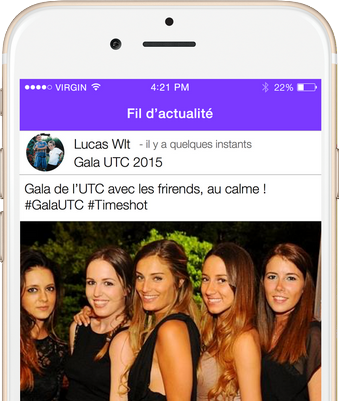
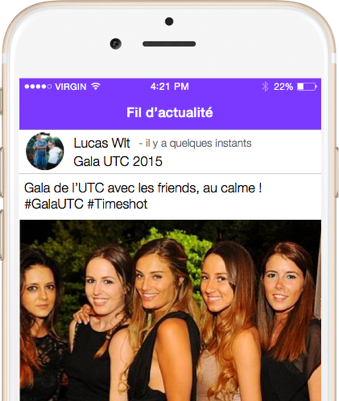
ready for Apple review : change popOver to ActionSheet + correct some css bug + change onboarding photo with mistake + disable send button if no event selected +

diff --git a/PicatchUsFB/www/pages/eventsFeed/eventsFeedController.js b/PicatchUsFB/www/pages/eventsFeed/eventsFeedController.js
@@ -1,6 +1,6 @@
 app.controller('EventsFeedController',
     function ($scope,$rootScope,$ionicModal, $cordovaToast, EventsFactory, PhotoFactory,
-            $ionicHistory,$ionicScrollDelegate, $ionicPopover, $ionicPopup){
+            $ionicHistory,$ionicScrollDelegate, $ionicPopover, $ionicPopup, $ionicActionSheet){
 
     $rootScope.uploadPhoto = 0;
 
@@ -32,22 +32,27 @@ app.controller('EventsFeedController',
         $scope.livePhotos[posPhoto].total_likes++;
         $scope.livePhotos[posPhoto].has_liked = true;
         PhotoFactory.like($scope.livePhotos[posPhoto].id).then(function(result){
+            console.log('like on feed');
             mixpanel.people.increment("Likes total");
             mixpanel.people.increment("Likes on feed");
             mixpanel.track('photo.like.onFeed');
         }, function(msg){
             $scope.livePhotos[posPhoto].total_likes--;
             $scope.livePhotos[posPhoto].has_liked = false;
+            console.log('error on liking a photo on feed');
         })  
     }
 
     $scope.dislike = function(posPhoto){
         $scope.livePhotos[posPhoto].total_likes--;
         $scope.livePhotos[posPhoto].has_liked = false;
-        PhotoFactory.like($scope.livePhotos[posPhoto].id).then(function(result){
+        PhotoFactory.dislike($scope.livePhotos[posPhoto].id).then(function(result){
+            console.log('dislike a photo on feed');
         }, function(msg){
             $scope.livePhotos[posPhoto].total_likes++;
             $scope.livePhotos[posPhoto].has_liked = true;
+            console.log('error on disliking a photo on feed');
+            console.log(msg);
         })
     }
 
@@ -62,23 +67,26 @@ app.controller('EventsFeedController',
      * POP OVER REPORT PHOTO
      */
 
-    var initPopover = function() {
-        return $ionicPopover.fromTemplateUrl('templates/reportPhotoPopOverMenu.html', {
-            scope: $scope
-            }).then(function(popover) {
-                $scope.popover = popover;
-        });
-    }
-
     $scope.openPopover = function($event) {
-        initPopover().then(function(){
-            console.log('open pop over');
-            $scope.popover.show($event);
-        });
+       // Show the action sheet
+       var hideSheet = $ionicActionSheet.show({
+         buttons: [
+           { text: '<b>Signaler</b>' }
+         ],
+         titleText: 'Signaler une photo',
+         cancelText: 'Annuler',
+         buttonClicked: function(index) {
+            hideSheet();
+            console.log('index Action Sheet : ' + index);
+           if(index == 0){
+            $scope.showConfirm();
+           }
+         }
+       });
     };
 
     $scope.showConfirm = function() {
-        $scope.popover.remove();
+
         var confirmPopup = $ionicPopup.confirm({
         title: 'Pourquoi signalez-vous cette photo ?',
         templateUrl: 'templates/reportPhotoConfirmBox.html',
@@ -92,7 +100,6 @@ app.controller('EventsFeedController',
         }]
     });
 
-        
     confirmPopup.then(function(res) {
          if(res) {
             $cordovaToast.showLongBottom('La photo a été signalée.');

diff --git a/PicatchUsFB/www/pages/eventDetails/eventDetailsController.js b/PicatchUsFB/www/pages/eventDetails/eventDetailsController.js
@@ -1,4 +1,4 @@
-app.controller('EventDetailsController',function ($scope, ngFB,$rootScope, $timeout,$stateParams, $ionicPopup, $cordovaToast, $state, $localstorage, $ionicModal, $ionicPopover, UserFactory, EventsFactory, PhotoFactory){
+app.controller('EventDetailsController',function ($scope, ngFB,$rootScope, $timeout,$stateParams, $ionicPopup, $cordovaToast, $ionicActionSheet, $state, $localstorage, $ionicModal, $ionicPopover, UserFactory, EventsFactory, PhotoFactory){
 	function getEvent(refresh){
         refresh == undefined ? refresh = false : refresh;
         EventsFactory.getEvent($stateParams.eventId, refresh).then(function(event){
@@ -98,23 +98,25 @@ app.controller('EventDetailsController',function ($scope, ngFB,$rootScope, $time
     /*
      * POP OVER MENU TO REPORT PHOTO
      */
-    var initPopover = function() {
-        return $ionicPopover.fromTemplateUrl('templates/reportPhotoPopOverMenu.html', {
-            scope: $scope
-            }).then(function(popover) {
-                $scope.popover = popover;
-        });
-    }
-
     $scope.openPopover = function($event) {
-        initPopover().then(function(){
-            console.log('open pop over');
-            $scope.popover.show($event);
-        });
+       // Show the action sheet
+       var hideSheet = $ionicActionSheet.show({
+         buttons: [
+           { text: '<b>Signaler</b>' }
+         ],
+         titleText: 'Signaler une photo',
+         cancelText: 'Annuler',
+         buttonClicked: function(index) {
+            hideSheet();
+            console.log('index Action Sheet : ' + index);
+           if(index == 0){
+            $scope.showConfirm();
+           }
+         }
+       });
     };
 
     $scope.showConfirm = function() {
-        $scope.popover.remove();
         var confirmPopup = $ionicPopup.confirm({
         title: 'Pourquoi signalez-vous cette photo ?',
         templateUrl: 'templates/reportPhotoConfirmBox.html',
@@ -124,7 +126,10 @@ app.controller('EventDetailsController',function ($scope, ngFB,$rootScope, $time
                 $cordovaToast.showLongBottom('La photo a été signalée.');
             }
         }, {
-            'text': 'Annuler'
+            'text': 'Annuler',
+            onTap: function(){
+                $scope.popover.remove();
+            }
         }]
     });
 

diff --git a/PicatchUsFB/www/pages/editPicture/editPictureController.js b/PicatchUsFB/www/pages/editPicture/editPictureController.js
@@ -3,6 +3,7 @@ app.controller('EditPictureController', function ($scope, ngFB, $stateParams, $l
         $scope.data = {}
         $scope.data.liveEvents = EventsFactory.getLiveEvents().then(function(liveEvents){
                 $scope.data.liveEvents = liveEvents;
+                $scope.changeSendButton();
             }, function(msg){
                 $cordovaToast.showLongBottom(msg);
             })
@@ -32,13 +33,32 @@ app.controller('EditPictureController', function ($scope, ngFB, $stateParams, $l
         mixpanel.people.increment("Photos taken");
     }
 
+    $scope.changeSendButton = function(){
+        console.log('changeSendButton');
+        $scope.enableButton = false;
+        if($scope.data.onMyWall == true){
+            $scope.enableButton = true;
+            console.log('enable button because wall');
+        }
+        else 
+        {
+            for(var i = 0; i < $scope.data.liveEvents.length; i++){
+              if($scope.data.liveEvents[i].isDestination == true){
+                console.log('enable button because event');
+                $scope.enableButton = true;
+              }
+            }
+        }
+
+    }
+
     $scope.sendPhoto = function() {
         $scope.data.options = new FileUploadOptions();
         var params = {};
         if($scope.data.description == undefined)
             params.caption = "#Timeshot";
         else
-            params.caption = $scope.data.description + " - #Timeshot";
+            params.caption = $scope.data.description + " #Timeshot";
         $scope.data.options.params = params;
 
         $rootScope.uploadPhoto = 1;

diff --git a/PicatchUsFB/www/pages/editPicture/editPicture.html b/PicatchUsFB/www/pages/editPicture/editPicture.html
@@ -3,17 +3,17 @@
     	<button class="button button-icon icon ion-android-close" ng-click="quit()"></button>
     </ion-nav-buttons>
 	<ion-nav-buttons side="right">
-     	<button class="button button-clear button-custom" ng-click="sendPhoto()">Envoyer</button>
+     	<button class="button button-clear button-custom" ng-click="sendPhoto()" ng-disabled="!enableButton">Envoyer</button>
     </ion-nav-buttons>
 
 	<ion-content ng-init="init()">
 		<div class="row item item-divider" >
 			<div class="col">
-					Sur :
-			    	<ion-checkbox ng-model="data.onMyWall"> mon mur</ion-checkbox>
+			    	<ion-checkbox ng-model="data.onMyWall" ng-change="changeSendButton()">Mon mur</ion-checkbox>
 					<ion-checkbox ng-model="event.isDestination" 
 									ng-true-value="{{event.isDestination}}" 
-									ng-repeat="event in data.liveEvents">
+									ng-repeat="event in data.liveEvents"
+									ng-change="changeSendButton()">
 						{{event.name}}
 					</ion-checkbox>
 			</div>

diff --git a/PicatchUsFB/www/pages/tutorial/SlidesController.js b/PicatchUsFB/www/pages/tutorial/SlidesController.js
@@ -6,7 +6,7 @@ app.controller('SlideController', function($scope, $state,$ionicHistory){
             "precedent": "",
             "skip":"Passer",
             "next":"Suivant",
-            "image": "img/OnBoarding1.png",
+            "image": "img/Onboarding1.png",
             "title": "ion-clock",
             "text": "Suis l'actualité de tes événements en temps réel"
         },
@@ -15,7 +15,7 @@ app.controller('SlideController', function($scope, $state,$ionicHistory){
             "precedent": "Précédent",
             "skip":"Passer",
             "next":"Suivant",
-            "image": "img/OnBoarding2.png",
+            "image": "img/Onboarding2.png",
             "title": "ion-camera",
             "text": "Partage en 1 clic tes photos avec les autres participants"
         },

diff --git a/PicatchUsFB/www/pages/login/login.html b/PicatchUsFB/www/pages/login/login.html
@@ -4,12 +4,12 @@
 		<p class="slogan">Changez le cours des événements Facebook</p>
 		<div class="fbDiv" ng-show="!isConnectedBool">
 			<button class="fbBtn" ng-click="login()">
-				<strong>Se connecter</strong> avec <strong>facebook</strong>
+				Se connecter
 			</button>
 		</div>
 		<div class="row rowPol">
 			<div class="col terms-privacy">
-				En utilisant cette application vous acceptez <span ng-click="openCGU()">les CGU</span> et <span class="openConfidentialite()">la politique de confidentialité</span>
+				<p>En utilisant cette application vous acceptez <span ng-click="openCGU()">les CGU</span> et <span ng-click="openConfidentialite()">la politique de confidentialité</span></p>
 			</div>
 		</div>
 	</ion-content>

diff --git a/PicatchUsFB/www/css/login.css b/PicatchUsFB/www/css/login.css
@@ -25,7 +25,7 @@
     text-align: center;
     color:white;
     top: 10% !important;
-    font-size: 4em;
+    font-size: 6em;
     line-height: 30px;
     position: absolute;
     top: 20%;
@@ -36,7 +36,7 @@
 }
 
 .terms-privacy {
-    font-size: 0.8em;
+    font-size: 1em;
 }
 
 .terms-privacy span {
@@ -48,12 +48,13 @@
     position:absolute;
     right:0px;
     left:0px;
-    top:80%;
+    bottom:15%;
     text-align: center;
 }
 .fbBtn {
     display:block;
     height:34px;
+    width: 75%;
     line-height: 34px;
     margin:auto;
     padding-left: 8px;
@@ -128,7 +129,7 @@
 }
 .rowPol {
     position: absolute;
-    bottom: 7%;
+    bottom: 4%;
     padding: 0px;
 }
 

diff --git a/PicatchUsFB/www/templates/photo_modal.html b/PicatchUsFB/www/templates/photo_modal.html
@@ -1,8 +1,11 @@
 <ion-modal-view id="modal-photo" on-swipe-down="closeModalPhoto()">
     <ion-pane class="modalPane">
         <div class="modal-header bar bar-header">
-            <div class="col col-offset-90 col-10">
-                <i class="ion-android-more-vertical"  ng-click="openPopover($event)"></i>
+            <div class="col col-10" ng-click="closeModalPhoto()">
+                <i class="ion-close-round"></i>
+            </div>
+            <div class="col col-offset-80 col-10" ng-click="openPopover($event)">
+                <i class="ion-more"></i>
             </div>
         </div>
 

diff --git a/PicatchUsFB/www/css/style.css b/PicatchUsFB/www/css/style.css
@@ -27,8 +27,7 @@ body{
   padding-left: 60px;
   border-width: 0px;
   background-color: transparent;
-  padding-top: 2px;
-  padding-bottom: 2px;
+  padding-top: 0px;
   border-bottom: 1px;
 }
 
@@ -319,6 +318,7 @@ div.userEvent img {
     padding-top: 2px;
     padding-bottom: 2px;
     min-height: 22px;
+    margin-top: 6%;
 }
 
 .myItem {
@@ -356,6 +356,10 @@ div.userEvent img {
     width: 100%;
     height: 95px;
     max-height: 95px;
+}
+
+#modal-photo .ion-close-round {
+    font-size: 80%;
 }
 
 /* 

diff --git a/PicatchUsFB/www/pages/eventsFeed/eventsFeed.html b/PicatchUsFB/www/pages/eventsFeed/eventsFeed.html
@@ -17,8 +17,8 @@
 				    	<h2>{{photo.from.name}} <span>- {{photo.time_ago}}<span></h2>
 				    	<p>{{photo.event_name}}</p>
 				  	</div>
-				  	<div class="col col-10 reportPhoto">
-				    	<i class="ion-chevron-down"  ng-click="openPopover($event)"></i>
+				  	<div class="col col-10 reportPhoto" ng-click="openPopover($event)">
+				    	<i class="ion-chevron-down"></i>
 				  	</div>
                 </div>
 

diff --git a/PicatchUsFB/www/css/eventFeeds.css b/PicatchUsFB/www/css/eventFeeds.css
@@ -4,8 +4,7 @@
 
 .uploadPhoto {
 	position:absolute;
-	top:50px;
-	height: 35px;
+	top:12%;
   	width: 45%;
   	right: 27%;
   	padding: 5px;

diff --git a/PicatchUsFB/www/css/tutorial.css b/PicatchUsFB/www/css/tutorial.css
@@ -1,6 +1,6 @@
 .photoTutorial {
 	background:#7b39ff;
-	margin-top: 5%;
+	margin-top: 10%;
 	height: 50%;
 }
 
